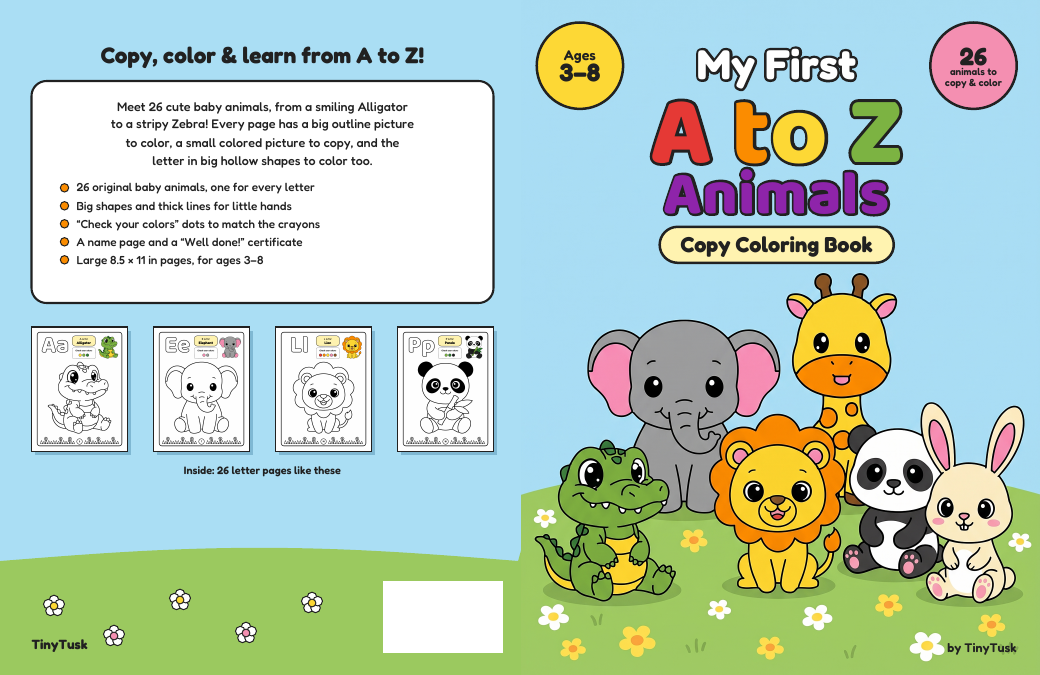
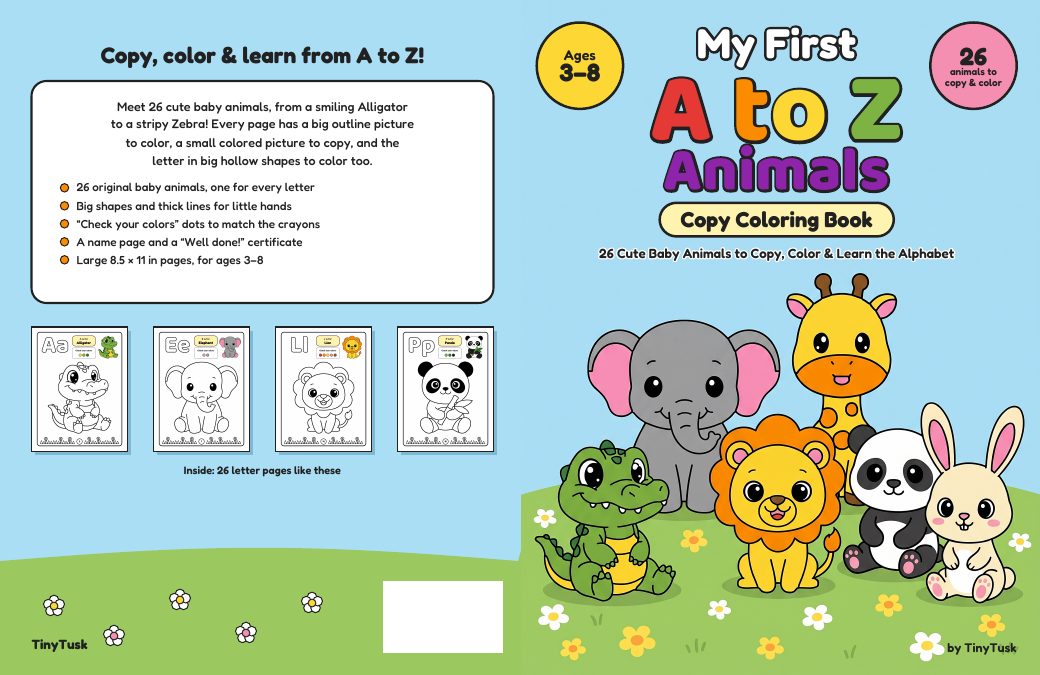
Cover: add subtitle line under Copy Coloring Book
Title stack moved up 0.35 in (still 0.1 in inside the top safe line)
to make room for '26 Cute Baby Animals to Copy, Color & Learn the
Alphabet' above the animals.

Claude-Session: https://claude.ai/code/session_01Q2zpvV4E2m4Yi8xUrxVm1x

Changed region(s): [[0.5538, 0.0311, 0.9231, 0.4044]]

diff --git a/src/cover.py b/src/cover.py
@@ -19,6 +19,7 @@ SPINE = round(PAGES * 0.002347, 4)
 W = BLEED + TRIM_W + SPINE + TRIM_W + BLEED
 H = BLEED + TRIM_H + BLEED
 PT = 72
+SUBTITLE = "26 Cute Baby Animals to Copy, Color & Learn the Alphabet"
 SAFE = 0.25                                       # text distance from trim / spine edges (brief)
 
 BACK_X0, BACK_X1 = BLEED, BLEED + TRIM_W          # back trim area
@@ -100,14 +101,16 @@ class Cover:
         c.drawImage(ImageReader("cover/front_art_300dpi.png"), self.X(FRONT_X0), 0,
                     (W - FRONT_X0) * PT, H * PT)
         cx = FRONT_CX
-        self.outlined("My First", cx, 1.32, "Fredoka-Bold", 50, [white], width=6)
+        self.outlined("My First", cx, 0.97, "Fredoka-Bold", 50, [white], width=6)
         az = [HexColor(PALETTE[k]) for k in ("Red", "Orange", "Yellow", "Yellow", "Light green", "Dark blue")]
-        self.outlined("A to Z", cx, 2.7, LETTER_FONT, 118, [az[0], white, az[1], az[2], white, az[4]], width=7)
-        self.outlined("Animals", cx, 3.55, LETTER_FONT, 74, [HexColor(PALETTE["Purple"])], width=6)
+        self.outlined("A to Z", cx, 2.33, LETTER_FONT, 118, [az[0], white, az[1], az[2], white, az[4]], width=7)
+        self.outlined("Animals", cx, 3.16, LETTER_FONT, 74, [HexColor(PALETTE["Purple"])], width=6)
         # pill: Copy Coloring Book
         pw = pdfmetrics.stringWidth("Copy Coloring Book", "Fredoka-Bold", 26) / PT + 0.7
-        self.rrect(cx - pw / 2, 3.78, cx + pw / 2, 4.38, 0.3, fill=HexColor("#FFF3B0"), width=3)
-        self.text("Copy Coloring Book", cx, 4.08 + 26 * CAP / PT / 2, "Fredoka-Bold", 26)
+        self.rrect(cx - pw / 2, 3.38, cx + pw / 2, 3.94, 0.28, fill=HexColor("#FFF3B0"), width=3)
+        self.text("Copy Coloring Book", cx, 3.66 + 26 * CAP / PT / 2, "Fredoka-Bold", 26)
+        # subtitle (dark text with a thin white outline so it stays readable over the art)
+        self.outlined(SUBTITLE, cx, 4.3, "Fredoka-SemiBold", 16, [INK], stroke=white, width=3)
         # badges in the top corners of the sky
         self.badge(FRONT_X0 + SAFE + 0.72, TRIM_Y0 + SAFE + 0.72, 0.72,
                    [("Ages", "Fredoka-SemiBold", 17), ("3-8".replace("-", "–"), "Fredoka-Bold", 30)],
